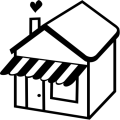
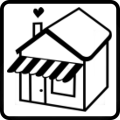
Shop functionality
Added required cookie count to unlock each item, change colour when unlocked

diff --git a/main.py b/main.py
@@ -21,8 +21,11 @@ pause_img = pygame.image.load('images/buttons/pause.png').convert_alpha()
 pause_background_img = pygame.image.load('images/backgrounds/pause_background.png').convert_alpha()
 game_background_img = pygame.image.load('images/backgrounds/game_background.png').convert_alpha()
 shop_grandma_img = pygame.image.load('images/buttons/shop_grandma.png').convert_alpha()
+shop_grandma_img_grey = pygame.image.load('images/buttons/shop_grandma_grey.png').convert_alpha()
 shop_bakery_img = pygame.image.load('images/buttons/shop_bakery.png').convert_alpha()
+shop_bakery_img_grey = pygame.image.load('images/buttons/shop_bakery_grey.png').convert_alpha()
 shop_factory_img = pygame.image.load('images/buttons/shop_factory.png').convert_alpha()
+shop_factory_img_grey = pygame.image.load('images/buttons/shop_factory_grey.png').convert_alpha()
 close_img = pygame.image.load('images/buttons/close.png').convert_alpha()
 
 
@@ -34,9 +37,12 @@ menu_background = button.Button(0, 0, menu_background_img, 1)
 pause_button = button.Button(740, 10, pause_img, 0.75)
 pause_background = button.Button(0, 0, pause_background_img, 1)
 game_background = button.Button(0, 0, game_background_img, 1)
-shop_grandma_button = button.Button(100, 190, shop_grandma_img, 1)
-shop_bakery_button = button.Button(100, 340, shop_bakery_img, 1)
-shop_factory_button = button.Button(100, 490, shop_factory_img, 1)
+shop_grandma_button = button.Grandma(100, 190, shop_grandma_img, 1, 0)
+shop_grandma_button_grey = button.Grandma(100, 190, shop_grandma_img_grey, 1, 0)
+shop_bakery_button = button.Bakery(100, 340, shop_bakery_img, 1, 0)
+shop_bakery_button_grey = button.Bakery(100, 340, shop_bakery_img_grey, 1, 0)
+shop_factory_button = button.Factory(100, 490, shop_factory_img, 1, 0)
+shop_factory_button_grey = button.Factory(100, 490, shop_factory_img_grey, 1, 0)
 close_button = button.Button(15, 15, close_img, 0.5)
 
 
@@ -54,14 +60,13 @@ cookie_button.count = saveloadmanager.load_game_data(["cookies"], [0])  # Load s
 
 # Updating game display
 def draw_window():
-    # screen.fill((37, 150, 207))
     game_background.draw(screen)
+
     # Button event logic
     # Screen is needed as an argument due to button being imported from another file
     if shop_button.draw(screen):  # When clicking shop button
         shop()
     if cookie_button.draw(screen):  # When clicking cookie button
-        # Increases score
         cookie_button.increasecount()
     if reset_button.draw(screen):  # When clicking reset button
         # cookie_button.count = saveloadmanager.delete_game_data("cookies")
@@ -112,7 +117,6 @@ if __name__ == "__main__":
 
             # Proceed events
             for event in pygame.event.get():
-                # Exit game
                 if event.type == pygame.QUIT:
                     pygame.quit()
                     quit()
@@ -185,33 +189,60 @@ if __name__ == "__main__":
         clock = pygame.time.Clock()
         running = True
 
-        # Pause loop
+        # Shop loop
         while running:
             # Setting max FPS to 60
             clock.tick(60)
 
-            # pause_background.draw(screen)
             screen.fill((77, 77, 77))
 
             # Menu title
             shop_menu_title = menu_title_font.render("SHOP", True, (255, 255, 255))
             screen.blit(shop_menu_title, (SCREEN_WIDTH / 2 - 75, 50))
 
+            current_cookie_text = current_score_font.render("Cookies: " + str(cookie_button.count), True, (255, 255, 255))
+            screen.blit(current_cookie_text, (SCREEN_WIDTH / 50, SCREEN_HEIGHT - 150))
+
             # Shop item images + text
-            if shop_grandma_button.draw(screen):
-                print("Grandma!")
-            grandma_item_text = main_menu_font.render("Grandma! (2x Cookies per click)", True, (255, 255, 255))
-            screen.blit(grandma_item_text, (SCREEN_WIDTH / 2 - 125, 240))
 
-            if shop_bakery_button.draw(screen):
-                print("Bakery!")
-            bakery_item_text = main_menu_font.render("Bakery! (5x Cookies per click)", True, (255, 255, 255))
-            screen.blit(bakery_item_text, (SCREEN_WIDTH / 2 - 125, 400))
+            # Grandma locked
+            if cookie_button.count < 100:
+                if shop_grandma_button_grey.draw(screen):
+                    print("NOT ENOUGH COOKIES")
+                grandma_item_text = main_menu_font.render("Grandma! (100 Cookies Required!)", True, (255, 255, 255))
+                screen.blit(grandma_item_text, (SCREEN_WIDTH / 2 - 125, 240))
+            # Grandma unlocked
+            else:
+                if shop_grandma_button.draw(screen):
+                    print("Grandma!")
+                grandma_item_text = main_menu_font.render("Grandma! (2x Cookies per click)", True, (255, 255, 255))
+                screen.blit(grandma_item_text, (SCREEN_WIDTH / 2 - 125, 240))
 
-            if shop_factory_button.draw(screen):
-                print("Factory!")
-            factory_item_text = main_menu_font.render("Factory! (10x Cookies per click)", True, (255, 255, 255))
-            screen.blit(factory_item_text, (SCREEN_WIDTH / 2 - 125, 550))
+            # Bakery locked
+            if cookie_button.count < 250:
+                if shop_bakery_button_grey.draw(screen):
+                    print("NOT ENOUGH COOKIES")
+                bakery_item_text = main_menu_font.render("Bakery! (250 Cookies Required!)", True, (255, 255, 255))
+                screen.blit(bakery_item_text, (SCREEN_WIDTH / 2 - 125, 400))
+            # Bakery unlocked
+            else:
+                if shop_bakery_button.draw(screen):
+                    print("Bakery!")
+                bakery_item_text = main_menu_font.render("Bakery! (5x Cookies per click)", True, (255, 255, 255))
+                screen.blit(bakery_item_text, (SCREEN_WIDTH / 2 - 125, 400))
+
+            # Factory locked
+            if cookie_button.count < 500:
+                if shop_factory_button_grey.draw(screen):
+                    print("NOT ENOUGH COOKIES")
+                factory_item_text = main_menu_font.render("Factory! (500 Cookies Required!)", True, (255, 255, 255))
+                screen.blit(factory_item_text, (SCREEN_WIDTH / 2 - 125, 550))
+            # Factory unlocked
+            else:
+                if shop_factory_button.draw(screen):
+                    print("Factory!")
+                factory_item_text = main_menu_font.render("Factory! (10x Cookies per click)", True, (255, 255, 255))
+                screen.blit(factory_item_text, (SCREEN_WIDTH / 2 - 125, 550))
 
             # Close menu button
             if close_button.draw(screen):

diff --git a/button.py b/button.py
@@ -46,7 +46,9 @@ class Cookie(Button):
     def __init__(self, x, y, image, scale, count):  # Taken from parent class + new attributes
         super().__init__(x, y, image, scale)  # Needed to use from parent class
 
+        # self.count += 10  # 10 cookies per grandma
         self.count = count
+
 
     def increasecount(self):
         # Increases score when clicking on cookie
@@ -62,4 +64,41 @@ class Reset(Button):
 
     def resetcount(self):
         # Reset score with click
+        self.count += 1
+
+
+# Child cookie button
+class Grandma(Button):
+    def __init__(self, x, y, image, scale, count):  # Taken from parent class + new attributes
+        super().__init__(x, y, image, scale)  # Needed to use from parent class
+
+        self.count = count
+        self.grandma = 10
+
+    def increasecount(self):
+        # Increases score when clicking on cookie
+        self.count += 1
+
+
+# Child cookie button
+class Bakery(Button):
+    def __init__(self, x, y, image, scale, count):  # Taken from parent class + new attributes
+        super().__init__(x, y, image, scale)  # Needed to use from parent class
+
+        self.count = count
+
+    def increasecount(self):
+        # Increases score when clicking on cookie
+        self.count += 1
+
+
+# Child cookie button
+class Factory(Button):
+    def __init__(self, x, y, image, scale, count):  # Taken from parent class + new attributes
+        super().__init__(x, y, image, scale)  # Needed to use from parent class
+
+        self.count = count
+
+    def increasecount(self):
+        # Increases score when clicking on cookie
         self.count += 1
